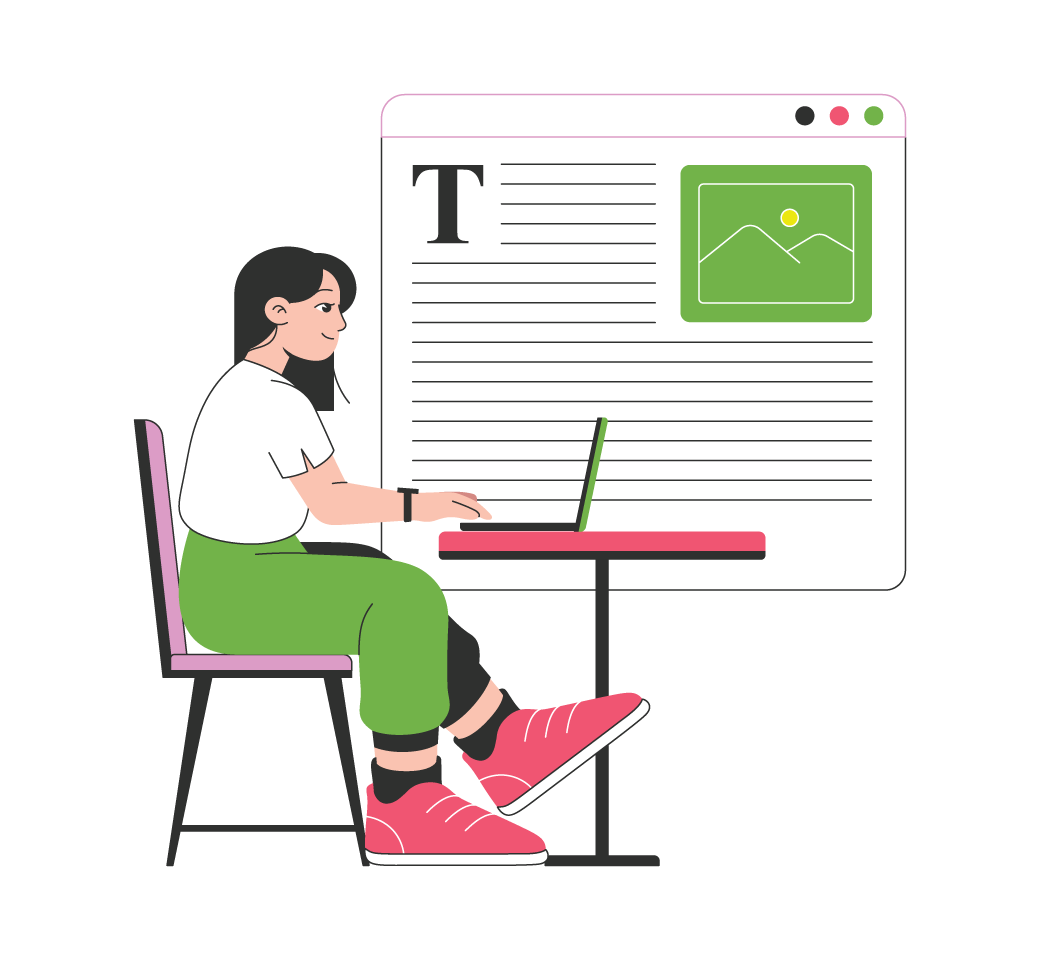
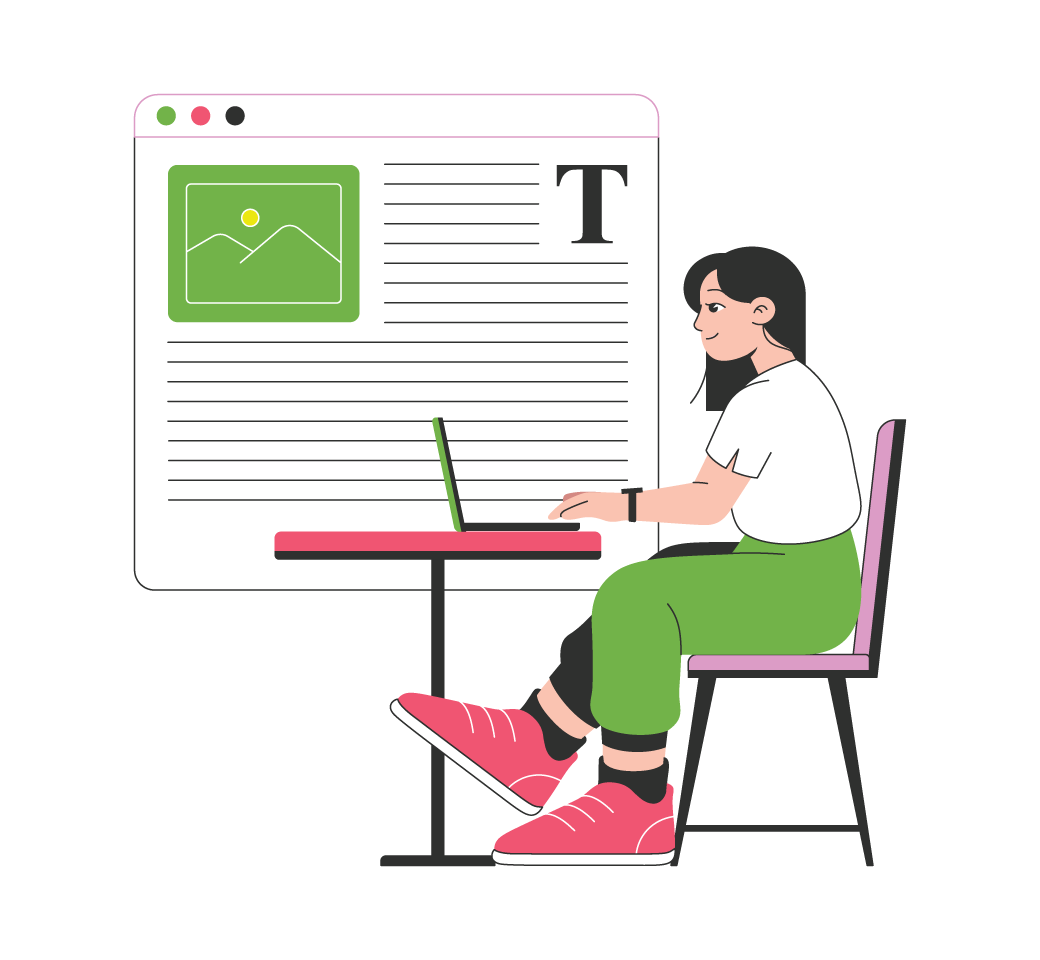
imagesandservicepage

Changed region(s): [[0.1231, 0.0938, 0.8923, 0.9062]]

diff --git a/components/service_main.js b/components/service_main.js
@@ -1,62 +1,88 @@
 "use client";
 import React, { useState, useEffect } from 'react';
-import { PageBanner } from "@/components/Banner";
-import PlaxLayout from "@/layouts/PlaxLayout";
+import { PageBanner } from "@/components/Banner"; // Assuming PageBanner is in this path
+import PlaxLayout from "@/layouts/PlaxLayout"; // Assuming PlaxLayout is in this path
 
 const ServicesPage = () => {
   const [currentSlide, setCurrentSlide] = useState(0);
-  const [isMobile, setIsMobile] = useState(false);
+  const [isMobile, setIsMobile] = useState(undefined); // Initialize to undefined
 
   const slideImages = [
     'img/service/Transform-Your-Ideas-Into-Literary-Masterpieces1.png',
     'img/service/Author-support1.png',
-    'img/service/visual1.png',
+    'img/service/Visual12.png',
     'img/service/Marketing _Business2.png'
   ];
 
   useEffect(() => {
+    // This effect runs only on the client-side
+    setIsMobile(window.innerWidth <= 768);
+
     const handleResize = () => {
       setIsMobile(window.innerWidth <= 768);
     };
 
-    handleResize(); // Initial check
-    window.addEventListener("resize", handleResize);
-    return () => window.removeEventListener("resize", handleResize);
-  }, []);
+    window.addEventListener('resize', handleResize);
 
-  useEffect(() => {
     const interval = setInterval(() => {
       setCurrentSlide((prev) => (prev + 1) % slideImages.length);
-    }, 3000);
+    }, 3000); // Change slide every 3 seconds
 
-    return () => clearInterval(interval);
+    return () => {
+      clearInterval(interval);
+      window.removeEventListener('resize', handleResize);
+    };
   }, [slideImages.length]);
 
   return (
     <>
-      <PageBanner pageName="Our Services" title="Extensive eBook Solutions" />
+      {/* Page Banner */}
+      <PageBanner
+        pageName="Our Services"
+        title="Extensive eBook Solutions"
+      />
 
       {/* Writing Services */}
-      <div className="mil-features" style={{ backgroundColor: '#f2fafa', padding: '120px 0' }}>
+      <div className="mil-features" style={{ backgroundColor: '#f2fafa', padding: '120px 0' }}> {/* Increased padding */}
         <div className="container">
           <div className="row justify-content-between align-items-center">
             <div className="col-xl-5 mil-mb-80">
-              <span className="mil-suptitle mil-upper mil-mb-30" style={{ color: '#7eb947', fontSize: '1.5em' }}>Writing</span>
+              <span className="mil-suptitle mil-upper mil-mb-30" style={{ color: '#7eb947', fontSize: '1.5em' }}> {/* Adjusted font size */}
+                Writing
+              </span>
               <h2 className="mil-mb-30 mil-up" style={{ color: '#000' }}>
                 Transform Your Ideas Into Literary Masterpieces
               </h2>
               <p className="mil-text-m mil-soft mil-mb-30 mil-up" style={{ color: '#666' }}>
                 Our expert team of professional writers brings your vision to life with
-                compelling narratives, engaging plots, and authentic voices...
+                compelling narratives, engaging plots, and authentic voices. From concept
+                to completion, we deliver exceptional writing that captivates readers.
               </p>
               <ul className="mil-list-2 mil-type-2 mil-mb-30">
-                <li className="mil-up" style={{ color: '#000' }}><span style={{ color: '#7eb947', marginRight: '10px' }}>✓</span> Ghostwriting Excellence</li>
-                <li className="mil-up" style={{ color: '#000' }}><span style={{ color: '#7eb947', marginRight: '10px' }}>✓</span> Strategic Plot & Outline Development</li>
-                <li className="mil-up" style={{ color: '#000' }}><span style={{ color: '#7eb947', marginRight: '10px' }}>✓</span> Children&apos;s Book Magic</li>
-                <li className="mil-up" style={{ color: '#000' }}><span style={{ color: '#7eb947', marginRight: '10px' }}>✓</span> AI-Enhanced Human Editing</li>
+                <li className="mil-up" style={{ color: '#000' }}>
+                  <span style={{ color: '#7eb947', marginRight: '10px' }}>✓</span>
+                  Ghostwriting Excellence
+                </li>
+                <li className="mil-up" style={{ color: '#000' }}>
+                  <span style={{ color: '#7eb947', marginRight: '10px' }}>✓</span>
+                  Strategic Plot & Outline Development
+                </li>
+                <li className="mil-up" style={{ color: '#000' }}>
+                  <span style={{ color: '#7eb947', marginRight: '10px' }}>✓</span>
+                  Children&apos;s Book Magic
+                </li>
+                <li className="mil-up" style={{ color: '#000' }}>
+                  <span style={{ color: '#7eb947', marginRight: '10px' }}>✓</span>
+                  AI-Enhanced Human Editing
+                </li>
               </ul>
               <div className="mil-up">
-                <a href="/getquote" className="mil-btn mil-m mil-add-arrow" style={{ backgroundColor: '#7eb947', borderColor: '#7eb947' }}>Get Quote</a>
+                <a href="/getquote" className="mil-btn mil-m mil-add-arrow" style={{
+                  backgroundColor: '#7eb947',
+                  borderColor: '#7eb947'
+                }}>
+                  Get Quote
+                </a>
               </div>
             </div>
             <div className="col-xl-6 mil-mb-80">
@@ -65,17 +91,19 @@ const ServicesPage = () => {
                   <img
                     key={index}
                     src={image}
-                    alt={`Slide ${index + 1}`}
+                    alt={`Writing Services ${index + 1}`}
                     className="mil-scale-img"
+                    data-value-1={1}
+                    data-value-2="1.2"
                     style={{
                       position: index === 0 ? 'relative' : 'absolute',
-                      top: 0,
-                      left: 0,
+                      top: index === 0 ? 'auto' : '0',
+                      left: index === 0 ? 'auto' : '0',
                       width: '100%',
                       height: '100%',
                       objectFit: 'cover',
                       opacity: currentSlide === index ? 1 : 0,
-                      transition: 'opacity 0.8s ease-in-out',
+                      transition: 'opacity 0.8s ease-in-out'
                     }}
                   />
                 ))}
@@ -147,7 +175,7 @@ const ServicesPage = () => {
                 Visual Excellence That Commands Attention
               </h2>
               <p className="mil-text-m mil-soft mil-mb-30 mil-up" style={{ color: '#666' }}>
-                First impressions matter. Our creative design team crafts stunning visuals
+                Our creative design team crafts stunning visuals
                 that not only attract readers but also communicate the essence of your story.
                 From covers to illustrations, we create designs that sell.
               </p>
@@ -177,7 +205,7 @@ const ServicesPage = () => {
             <div className="col-xl-6 mil-mb-80">
               <div className="mil-image-frame mil-up">
                 <img
-                  src="img/service/Visual1.png"
+                  src="img/service/Visual12.png"
                   alt="Design Services"
                   className="mil-scale-img"
                   data-value-1={1}
@@ -305,8 +333,8 @@ const ServicesPage = () => {
         </div>
       </div>
 
-      {/* CTA */}
-      <div className="mil-cta mil-up" style={{ backgroundColor: 'white', padding: '120px 0' }}>
+      {/* Call to Action */}
+      <div className="mil-cta mil-up" style={{ backgroundColor: 'white', padding: '120px 0' }}> {/* Increased padding */}
         <div className="container">
           <div className="mil-out-frame mil-p-160-100">
             <div className="row justify-content-center mil-text-center">
@@ -315,8 +343,86 @@ const ServicesPage = () => {
                   Ready to Transform Your Ideas Into Bestsellers?
                 </h2>
                 <p className="mil-text-m mil-soft mil-mb-30 mil-up" style={{ color: '#666' }}>
-                  Join thousands of successful authors who’ve trusted DoMyEbook...
+                  Join thousands of successful authors who&apos;ve trusted DoMyEbook with their
+                  publishing journey. Let&apos;s turn your manuscript into a marketplace success story.
                 </p>
+              </div>
+            </div>
+            <div className="row">
+              <div className="col-xl-4 mil-mb-60">
+                <div className="mil-icon-box">
+                  <div className="mil-mb-30 mil-up" style={{
+                    width: '60px',
+                    height: '60px',
+                    backgroundColor: '#7eb947',
+                    borderRadius: '50%',
+                    display: 'flex',
+                    alignItems: 'center',
+                    justifyContent: 'center',
+                    color: 'white',
+                    fontSize: '24px',
+                    fontWeight: 'bold'
+                  }}>
+                    <img src="/img/service/Services_2,500+_Books_Published.png" alt="icon" style={{ width: '40px', height: '40px' }} />
+                  </div>
+                  <h5 className="mil-mb-20 mil-up" style={{ color: '#000' }}>
+                    2,500+ Books Published
+                  </h5>
+                  <p className="mil-text-m mil-soft mil-up" style={{ color: '#666' }}>
+                    Successfully published thousands of books across all genres with
+                    professional quality and market-ready presentation.
+                  </p>
+                </div>
+              </div>
+              <div className="col-xl-4 mil-mb-60">
+                <div className="mil-icon-box">
+                  <div className="mil-mb-30 mil-up" style={{
+                    width: '60px',
+                    height: '60px',
+                    backgroundColor: '#7eb947',
+                    borderRadius: '50%',
+                    display: 'flex',
+                    alignItems: 'center',
+                    justifyContent: 'center',
+                    color: 'white',
+                    fontSize: '24px',
+                    fontWeight: 'bold'
+                  }}>
+                    <img src="/img/service/Services_Client_Satisfaction.png" alt="icon" style={{ width: '40px', height: '40px' }} />
+                  </div>
+                  <h5 className="mil-mb-20 mil-up" style={{ color: '#000' }}>
+                    98% Client Satisfaction
+                  </h5>
+                  <p className="mil-text-m mil-soft mil-up" style={{ color: '#666' }}>
+                    Our commitment to excellence ensures nearly perfect client satisfaction
+                    with every project we complete.
+                  </p>
+                </div>
+              </div>
+              <div className="col-xl-4 mil-mb-60">
+                <div className="mil-icon-box">
+                  <div className="mil-mb-30 mil-up" style={{
+                    width: '60px',
+                    height: '60px',
+                    backgroundColor: '#7eb947',
+                    borderRadius: '50%',
+                    display: 'flex',
+                    alignItems: 'center',
+                    justifyContent: 'center',
+                    color: 'white',
+                    fontSize: '24px',
+                    fontWeight: 'bold'
+                  }}>
+                    <img src="/img/service/Services_Global_Reach.png" alt="icon" style={{ width: '40px', height: '40px' }} />
+                  </div>
+                  <h5 className="mil-mb-20 mil-up" style={{ color: '#000' }}>
+                    Global Reach
+                  </h5>
+                  <p className="mil-text-m mil-soft mil-up" style={{ color: '#666' }}>
+                    Serving authors worldwide with 24/7 support and expertise in
+                    multiple languages and markets.
+                  </p>
+                </div>
               </div>
             </div>
             <div className="row justify-content-center mil-text-center">
@@ -330,7 +436,8 @@ const ServicesPage = () => {
                       borderColor: '#7eb947',
                       marginRight: '15px',
                       display: 'inline-block',
-                      marginBottom: isMobile ? '10px' : '0px',
+                      // Only apply marginBottom based on isMobile if it's defined (client-side)
+                      marginBottom: isMobile !== undefined ? (isMobile ? '10px' : '0px') : '0px',
                       justifyContent: 'center',
                       alignContent: 'center',
                       textAlign: 'center',
@@ -355,6 +462,7 @@ const ServicesPage = () => {
                 </div>
               </div>
             </div>
+
           </div>
         </div>
       </div>

diff --git a/app/custom-illustrations/page.js b/app/custom-illustrations/page.js
@@ -59,7 +59,7 @@ const CustomIllustrationsPage = () => {
                 <div className="mil-image-frame mil-up">
                   <div className="feature-image-placeholder">
                     <img
-                      src="/img/services/custom.png"
+                      src="/img/services/custom1.png"
                       alt="service image"
                     />
                   </div>
